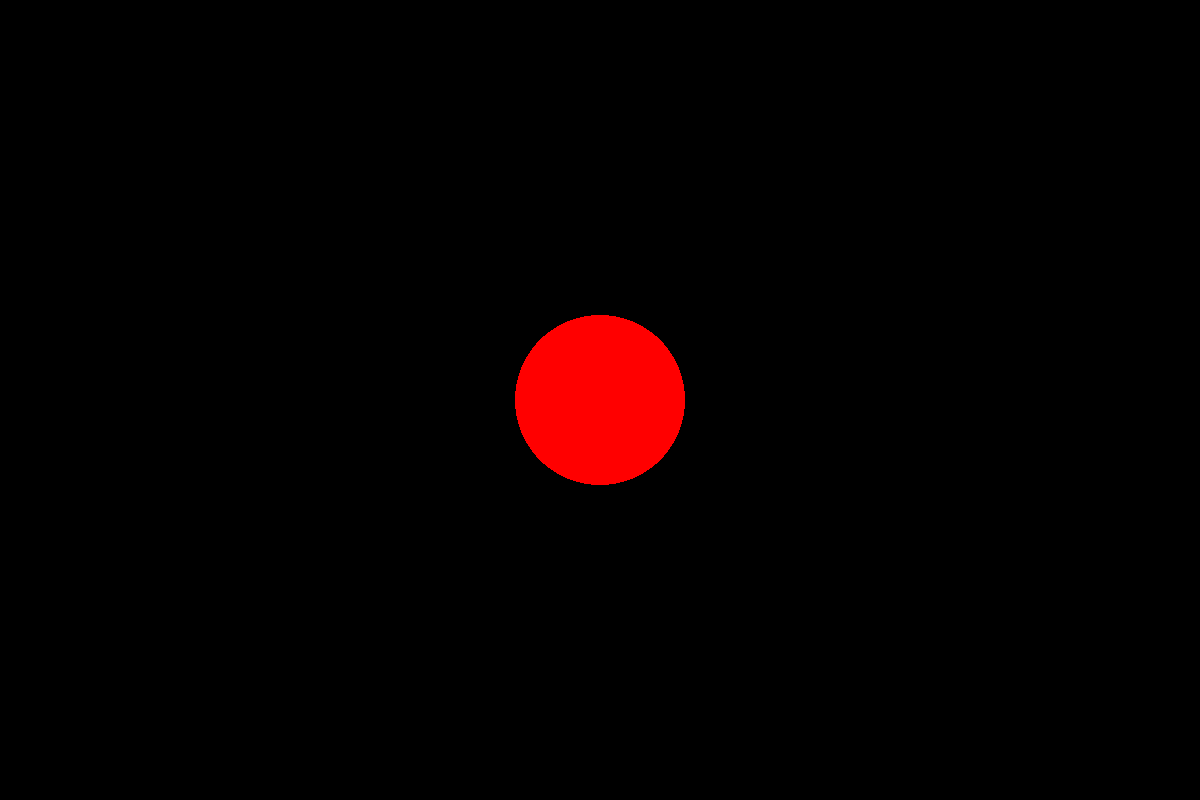
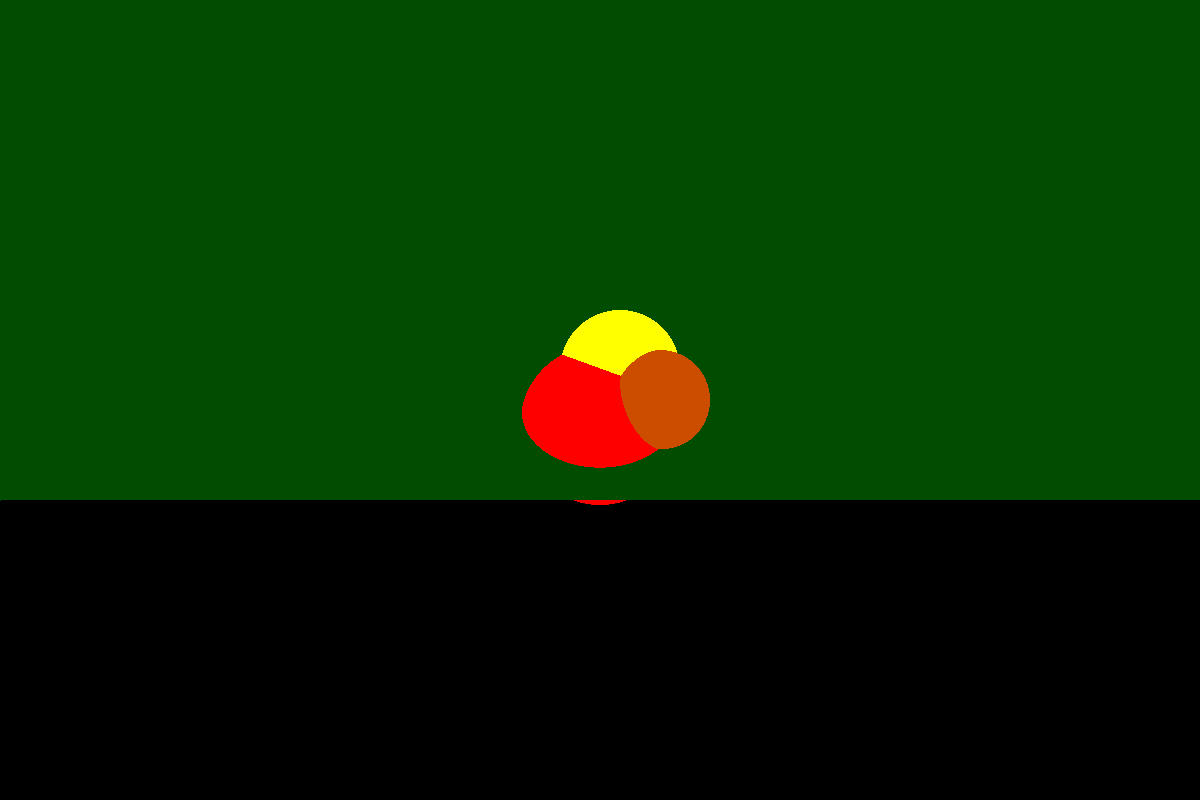
Ferdig med kapittel 3, fungerer skjerm og fil.

diff --git a/Raytracing/World.cpp b/Raytracing/World.cpp
@@ -2,13 +2,16 @@
 #include "World.h"
 #include "Utilities/Constants.h"
 
+
 // geometric objects
 
 #include "Sphere.h"
+#include "Plane.h"
 
 // Tracers
 
-#include "SingleSphere.h"
+//#include "SingleSphere.h"
+#include "MultipleObjects.h"
 
 // Utilities
 
@@ -47,17 +50,40 @@ void World::build(void)
 {
 	vp.set_hres(cCx);
 	vp.set_vres(cCy);
+
 	vp.set_pixel_size(1.0);
 	vp.set_gamma(1.0);
+
 	background_color = black;
-	tracer_ptr = new SingleSphere(this);
-	sphere.set_center(0.0);
-	sphere.set_radius(85.0);
+
+	tracer_ptr = new MultipleObjects(this);
+
+	// use access functions to set sphere center and radius
+	Sphere* sphere_ptr = new Sphere;
+	sphere_ptr->set_center(0, -25, 0);
+	sphere_ptr->set_radius(80);
+	sphere_ptr->set_color(1, 0, 0); // red
+	add_object(sphere_ptr);
+
+	// use constructor to set sphere center and radius
+	sphere_ptr = new Sphere(Point3D(20, 30, 0), 60);
+	sphere_ptr->set_color(1, 1, 0); // yellow
+	add_object(sphere_ptr);
+
+	sphere_ptr = new Sphere(Point3D(60, 00, 40), 50);
+	sphere_ptr->set_color(0.8, 0.3, 0.0); 
+	add_object(sphere_ptr);
+
+	Plane* plane_ptr = new Plane(Point3D(0, 0, 0), Normal(0, 1, 1));
+	plane_ptr->set_color(0.0, 0.3, 0.0); // dark green
+	add_object(plane_ptr);
 
 
 	im = new writeImage(vp.hres, vp.vres);
+	
 }
 
+VOID toScreen(VOID);
 void World::render_scene(void) const
 {
 	RGBColor pixel_color;
@@ -81,11 +107,13 @@ void World::render_scene(void) const
 			ray.o = Point3D(x, y, zw);
 			pixel_color = tracer_ptr->trace_ray(ray);
 			display_pixel(r, c, pixel_color);
+
+			
 		}
+		
 	}
 
-
-
+	toScreen();
 	im->saveImage();
 }
 
@@ -126,13 +154,13 @@ void World::display_pixel(const int row, const int column, const RGBColor& pixel
 
 	RGBColor mapped_color;
 
-	//if (vp.show_out_of_gamut)
-	//	mapped_color = clamp_to_color(pixel_color);
-	//else
-	//	mapped_color = max_to_one(pixel_color);
+	if (vp.show_out_of_gamut)
+		mapped_color = clamp_to_color(pixel_color);
+	else
+		mapped_color = max_to_one(pixel_color);
 
-	//if (vp.gamma != 1.0)
-	//	mapped_color = mapped_color.powc(vp.inv_gamma);
+	if (vp.gamma != 1.0)
+		mapped_color = mapped_color.powc(vp.inv_gamma);
 
 	// have to start from max y coordinate to convert to screen coordinates
 	int x = column;
@@ -144,4 +172,19 @@ void World::display_pixel(const int row, const int column, const RGBColor& pixel
 
 	im->setPixel(x, y, (int)(pixel_color.r * 255), (int)(pixel_color.g * 255), (int)(pixel_color.b * 255));
 
+}
+
+ShadeRec World::hit_bare_bones_objects(const Ray& ray) 
+{
+	ShadeRec sr(*this);
+	double t;
+	double tmin = kHugeValue;
+	int num_objects = objects.size();
+	for (int j = 0; j < num_objects; j++)
+		if (objects[j]->hit(ray, t, sr) && (t < tmin)) {
+			sr.hit_an_object = true;
+			tmin = t;
+			sr.color = objects[j]->get_color();
+		}
+	return (sr);
 }

diff --git a/Raytracing/World.h b/Raytracing/World.h
@@ -1,5 +1,7 @@
 #pragma once
 
+#include <vector>
+
 #include "ViewPlane.h"
 #include "Utilities/RGBColor.h"
 #include "Tracer.h"
@@ -13,8 +15,10 @@ public:
 
 	ViewPlane vp;
 	RGBColor background_color;
-	Sphere sphere;
+	//Sphere sphere;
 	Tracer* tracer_ptr;
+	std::vector<GeometricObject*> objects;
+
 
 	writeImage* im;
 
@@ -26,7 +30,9 @@ public:
 
 	void render_scene(void) const;
 
-	
+	void add_object(GeometricObject* object_ptr);
+
+	ShadeRec hit_bare_bones_objects(const Ray& ray);
 
 	//void open_window(const int hres, const int vres);
 
@@ -37,4 +43,8 @@ public:
 	void display_pixel(const int row, const int column, const RGBColor& pixel_color) const;
 
 };
+
+inline void World::add_object(GeometricObject* object_ptr) {
+	objects.push_back(object_ptr);
+}
 

diff --git a/Raytracing/writeImage.cpp b/Raytracing/writeImage.cpp
@@ -5,8 +5,11 @@
 #include <Windows.h>
 #include "Utilities/Constants.h"
 
-extern HWND hWnd;
+//extern HWND hWnd;
 extern COLORREF arr[];
+
+
+
 
 writeImage::writeImage(void)
 {
@@ -52,8 +55,8 @@ void writeImage::setPixel(const int x, const int y, int red, int green, int blue
 	image[x * 3 + y * hres * 3 + 2] = blue;
 	
 	arr[cCx * y + x] = RGB(blue, green, red);
-
-	InvalidateRect(hWnd, NULL, TRUE);
+	
+//	InvalidateRect(hWnd, NULL, TRUE);
 }
 
 void writeImage::saveImage(void)

diff --git a/Raytracing/MultipleObjects.cpp b/Raytracing/MultipleObjects.cpp
@@ -1,0 +1,23 @@
+#include "MultipleObjects.h"
+#include "World.h"
+#include "Shaderec.h"
+
+MultipleObjects::MultipleObjects(void) : Tracer()
+{
+
+}
+
+MultipleObjects::MultipleObjects(World* _worldPtr) : Tracer(_worldPtr)
+{
+
+}
+
+RGBColor MultipleObjects::trace_ray(const Ray& ray) const
+{
+	ShadeRec sr(world_ptr->hit_bare_bones_objects(ray));
+	if (sr.hit_an_object)
+		return (sr.color);
+	else
+		return (world_ptr->background_color);
+	
+}

diff --git a/Raytracing/Sphere.h b/Raytracing/Sphere.h
@@ -18,12 +18,17 @@ public:
 
 	void set_radius(const double r);
 
+
+
 private:
 
 	Point3D center; // Point of center of sphere
 
 	float radius; // radius of the sphere
 	static const double kEpsilon; // see chapter 16
+
+	/*RGBColor color;*/ 
+
 };
 
 inline void Sphere::set_center(const Point3D& c)
@@ -43,3 +48,5 @@ inline void Sphere::set_center(const double x, const double y, const double z)
 {
 	 radius = r;
 }
+
+

diff --git a/Raytracing/GeometricObject.h b/Raytracing/GeometricObject.h
@@ -13,8 +13,20 @@ public:
 
 	virtual bool hit(const Ray& ray, double& tmin, ShadeRec& sr) const = 0;
 
+	void set_color(const float r, const float g, const float b);
+	RGBColor get_color();
+
 protected:
 	RGBColor color;
 
 };
 
+inline void GeometricObject::set_color(const float r, const float g, const float b)
+{
+	color = RGBColor(r, g, b);
+}
+
+inline RGBColor GeometricObject::get_color()
+{
+	return color;
+}

diff --git a/Raytracing/Plane.h b/Raytracing/Plane.h
@@ -9,7 +9,6 @@ public:
 	Plane(const Point3D p, const Normal& n);
 
 
-
 	virtual bool hit(const Ray& ray, double& t, ShadeRec& s) const;
 
 private:
@@ -18,6 +17,8 @@ private:
 
 	Normal normal; // normal to the plane
 	static const double kEpsilon; // see chapter 16
+
+	/*RGBColor color;*/
 
 };
 

diff --git a/Raytracing/SingleSphere.cpp b/Raytracing/SingleSphere.cpp
@@ -15,8 +15,8 @@ RGBColor SingleSphere::trace_ray(const Ray& ray) const
 	ShadeRec sr(*world_ptr); // not used
 	double t; // not used
 
-	if (world_ptr->sphere.hit(ray, t, sr))
+	/*if (world_ptr->sphere.hit(ray, t, sr))
 		return (red);
-	else 
+	else */
 		return (black);
 }

diff --git a/Raytracing/MultipleObjects.h b/Raytracing/MultipleObjects.h
@@ -1,0 +1,12 @@
+#pragma once
+#include "Tracer.h"
+class MultipleObjects :
+	public Tracer
+{
+public:
+	MultipleObjects(void);
+	MultipleObjects(World* _worldPtr);
+
+	virtual RGBColor trace_ray(const Ray& ray) const;
+};
+

diff --git a/Raytracing/Utilities/Maths.h b/Raytracing/Utilities/Maths.h
@@ -1,5 +1,4 @@
-#ifndef __MATHS__
-#define __MATHS__
+#pragma once
 
 inline double
 max(double x0, double x1);
@@ -9,5 +8,3 @@ max(double x0, double x1)
 {
 	return((x0 > x1) ? x0 : x1);
 }
-
-#endif

diff --git a/Raytracing/writeImage.h b/Raytracing/writeImage.h
@@ -1,5 +1,6 @@
 #pragma once
 
+
 class writeImage
 {
 public:
